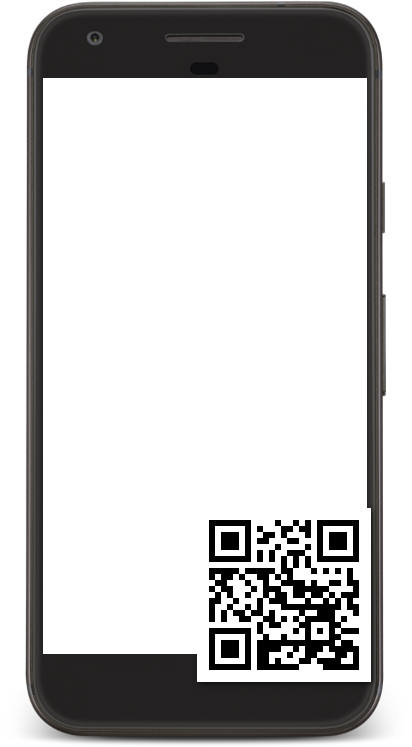
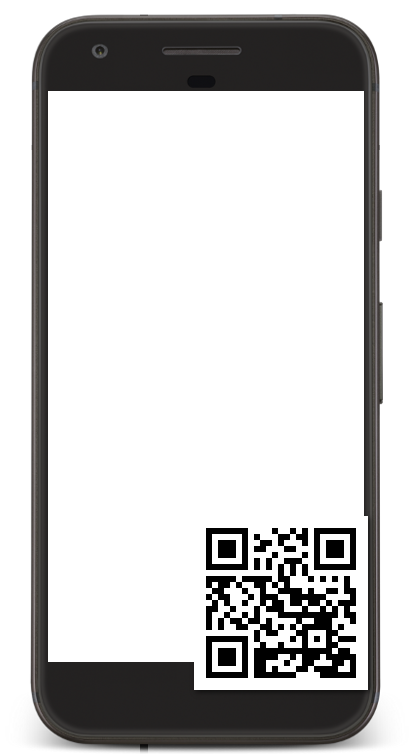
Separate screenshot from device chrome.
Uses an `<img` tag for the chrome, with a `background:` CSS property for
the screenshot.

Changed region(s): [[0.0583, 0.0, 0.9612, 0.9853], [0.2621, 0.9853, 0.7864, 1.0]]

diff --git a/index.md b/index.md
@@ -12,4 +12,6 @@ permalink: /
 **[{{strings.download_fdroid}}](https://f-droid.org/FDroid.apk){:class="material-button"}**
 [{{strings.gpg_signature}}](https://f-droid.org/FDroid.apk.asc)
 
-![{{strings.screenshot}}](assets/fdroid-screenshot.png)
+<img
+    src="assets/phone-frame.png"
+    style="background: url('assets/fdroid-screenshot-{{ site.active_lang }}.png') center center no-repeat; background-size: 78% auto" />
